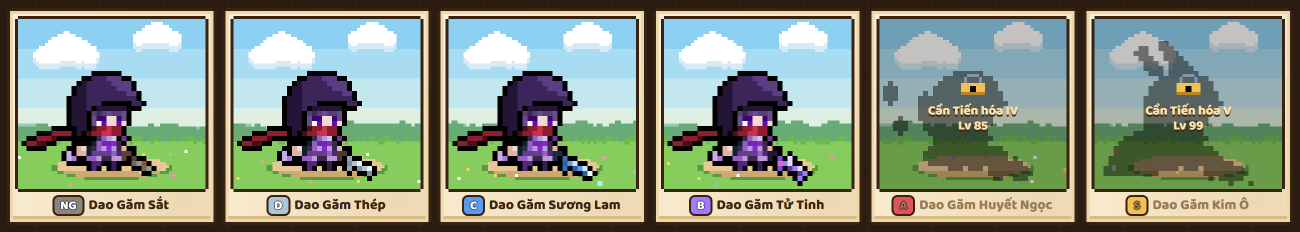
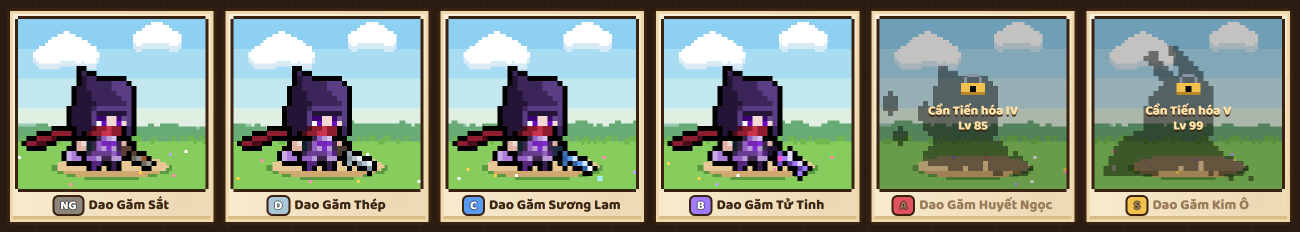
Vẽ lại mũ trùm Sát Thủ và Xạ Thủ: ôm sát đầu, nhỏ gọn, bỏ lưỡi trai
Sát Thủ Bóng Ma, Hàn Ảnh, Huyết Ảnh đội mũ trùm có chóp nhọn; Tử Thần Vĩnh Đông và Tu La đội mũ tròn kèm sừng. Mũ trùm Xạ Thủ để lộ tóc mái và không còn che cung.

diff --git a/index.html b/index.html
@@ -139,7 +139,7 @@ footer a { color: #e9c89a; }
 <h2 class="sec" id="s2"><span class="n">2</span>  Cây tiến hóa <small>5 class · Dạng 0–1 chung, Lv 40 rẽ nhánh A/B</small></h2>
 <p class="lead">Màu nhãn “Dạng” dùng lại màu độ hiếm: Thường → Khá → Hiếm → Sử thi → Huyền thoại → Thần thoại. Mỗi thẻ ghi các kỹ năng <b>mới học ở dạng đó</b>. Mỗi nhánh đủ 12 kỹ năng: <b>5 dùng chung</b> (Lv 1–20) và <b>7 riêng</b> (Lv 40–99). Đường vàng từ mốc Lv 40 rẽ xuống nhánh B. Từ Dạng 3 có <b>vòng rune</b> dưới chân, từ Dạng 4 có <b>hạt sáng</b>, Dạng 5 thêm <b>hào quang</b>, màu theo nhánh.</p>
 <div class="grp stack"><figure class="shot"><a href="img/tree1@2x.webp" target="_blank" rel="noopener"><img src="img/tree1.webp" srcset="img/tree1.webp 1300w, img/tree1@2x.webp 2600w" sizes="(max-width: 1332px) calc(100vw - 32px), 1300px" data-w="1300" width="1300" height="1029" style="--w:1300px" loading="lazy" decoding="async" alt="Cây tiến hóa · Tiên Phong"></a></figure><figure class="shot"><a href="img/tree2@2x.webp" target="_blank" rel="noopener"><img src="img/tree2.webp" srcset="img/tree2.webp 1300w, img/tree2@2x.webp 2600w" sizes="(max-width: 1332px) calc(100vw - 32px), 1300px" data-w="1300" width="1300" height="1015" style="--w:1300px" loading="lazy" decoding="async" alt="Cây tiến hóa · Sát Thủ"></a></figure><figure class="shot"><a href="img/tree3@2x.webp" target="_blank" rel="noopener"><img src="img/tree3.webp" srcset="img/tree3.webp 1300w, img/tree3@2x.webp 2600w" sizes="(max-width: 1332px) calc(100vw - 32px), 1300px" data-w="1300" width="1300" height="1047" style="--w:1300px" loading="lazy" decoding="async" alt="Cây tiến hóa · Pháp Sư"></a></figure><figure class="shot"><a href="img/tree4@2x.webp" target="_blank" rel="noopener"><img src="img/tree4.webp" srcset="img/tree4.webp 1300w, img/tree4@2x.webp 2600w" sizes="(max-width: 1332px) calc(100vw - 32px), 1300px" data-w="1300" width="1300" height="1015" style="--w:1300px" loading="lazy" decoding="async" alt="Cây tiến hóa · Xạ Thủ"></a></figure><figure class="shot"><a href="img/tree5@2x.webp" target="_blank" rel="noopener"><img src="img/tree5.webp" srcset="img/tree5.webp 1300w, img/tree5@2x.webp 2600w" sizes="(max-width: 1332px) calc(100vw - 32px), 1300px" data-w="1300" width="1300" height="1043" style="--w:1300px" loading="lazy" decoding="async" alt="Cây tiến hóa · Tu Sĩ"></a></figure></div>
-<div class="note parch px honest"><b>Ngoại hình tiến hóa:</b> bộ Zerie có 4 dáng người cho Tiên Phong (Lính, Hiệp sĩ, Hiệp sĩ Thập tự, Kỵ sĩ giáo). Sát Thủ, Pháp Sư, Xạ Thủ, Tu Sĩ mỗi class chỉ có <b>1 dáng gốc</b>, nên mỗi dạng = <b>đổi màu + phụ kiện vẽ thêm</b>: khăn, mặt nạ, mũ trùm, sừng (Sát Thủ); áo choàng, quả cầu, mũ nhọn, vòng rune (Pháp Sư); lông vũ, chim ưng, trăng, vòng nguyệt quế (Xạ Thủ); dải choàng, mắt thứ ba, vòng hào quang, cánh (Tu Sĩ). <b>Nhánh B</b> dùng cùng dáng nhưng đổi tông màu và bộ phụ kiện riêng: Tiên Phong giáp đỏ thẫm, đen; Sát Thủ khăn và mắt đỏ, mảnh máu bay, sừng; Pháp Sư áo ngọc lam, mũ cao, có <b>tinh linh slime đi theo</b> (1 → 2 → 3 con theo nguyên tố chính, Dạng 5 đủ Lửa, Băng, Sét); Xạ Thủ áo tím, lục độc, mũ trùm, khăn che mặt, gạc hươu; Tu Sĩ ngọc giữa trán, áo đêm, sao bay, tia sáng. Phụ kiện <b>bám theo đầu nhân vật trong mọi khung hình</b> (đứng, đi, đánh, trúng đòn), và công cụ nhập sprite sẽ tự ghép, không lưu sprite vào git. Sau này muốn đẹp hơn có thể vẽ lại bằng Aseprite. Loại vũ khí 2 của Tiên Phong (<b>Rìu Hai Tay</b>) dùng thêm dáng <b>Lính Rìu Giáp</b> ở Dạng 0–3; Dạng 4–5 vẫn cưỡi ngựa nhưng cầm <b>kích</b>.</div>
+<div class="note parch px honest"><b>Ngoại hình tiến hóa:</b> bộ Zerie có 4 dáng người cho Tiên Phong (Lính, Hiệp sĩ, Hiệp sĩ Thập tự, Kỵ sĩ giáo). Sát Thủ, Pháp Sư, Xạ Thủ, Tu Sĩ mỗi class chỉ có <b>1 dáng gốc</b>, nên mỗi dạng = <b>đổi màu + phụ kiện vẽ thêm</b>: khăn, mặt nạ, mũ trùm, sừng (Sát Thủ); áo choàng, quả cầu, mũ nhọn, vòng rune (Pháp Sư); lông vũ, mũ trùm, chim ưng, trăng, vòng nguyệt quế (Xạ Thủ); dải choàng, mắt thứ ba, vòng hào quang, cánh (Tu Sĩ). <b>Nhánh B</b> dùng cùng dáng nhưng đổi tông màu và bộ phụ kiện riêng: Tiên Phong giáp đỏ thẫm, đen; Sát Thủ khăn và mắt đỏ, mảnh máu bay, sừng; Pháp Sư áo ngọc lam, mũ cao, có <b>tinh linh slime đi theo</b> (1 → 2 → 3 con theo nguyên tố chính, Dạng 5 đủ Lửa, Băng, Sét); Xạ Thủ áo tím, lục độc, mũ trùm, khăn che mặt, gạc hươu; Tu Sĩ ngọc giữa trán, áo đêm, sao bay, tia sáng. Phụ kiện <b>bám theo đầu nhân vật trong mọi khung hình</b> (đứng, đi, đánh, trúng đòn), và công cụ nhập sprite sẽ tự ghép, không lưu sprite vào git. Sau này muốn đẹp hơn có thể vẽ lại bằng Aseprite. Loại vũ khí 2 của Tiên Phong (<b>Rìu Hai Tay</b>) dùng thêm dáng <b>Lính Rìu Giáp</b> ở Dạng 0–3; Dạng 4–5 vẫn cưỡi ngựa nhưng cầm <b>kích</b>.</div>
 <div class="note parch px honest"><b>Vũ khí theo trang bị:</b> mỗi class có <b>2 loại vũ khí</b> (hình cây vẽ loại 1, đủ 2 loại xem ở mục 4b; Sát Thủ: Dao Găm hoặc Song Đao; Tiên Phong: Kiếm &amp; Khiên hoặc Rìu Hai Tay…). Mỗi thẻ vẽ vũ khí <b>hạng mở ở dạng đó</b> (nhãn góc trái trên: NG → D → C → B → A → S). Trong game, vũ khí vẽ trên người là <b>món đang cầm</b> chứ không theo dạng (xem mục 4). Công cụ dò vị trí vũ khí trong từng khung hình rồi vẽ lại, nên vũ khí mới chạy đúng mọi hoạt ảnh (đứng, đi, đánh, trúng đòn).</div>
 <h2 class="sec" id="s3"><span class="n">3</span>Màn Anh hùng · Tiến hóa <small>1280×720 · thay cho Phòng thử build · hình trên: trước, hình dưới: sau khi tiến hóa</small></h2>
 <p class="lead">Sát Thủ vừa chạm <b>Lv 20</b>. Còn thiếu 6 Nanh Sói và <b>Ấn Bóng Tối</b>, món chỉ rơi từ Tù Trưởng Goblin khi đang nhận nhiệm vụ. Đủ đồ thì nút <b>TIẾN HÓA</b> sáng lên. Bấm vào: nhân vật lóe sáng, đổi sang dáng mới, mở 3 kỹ năng mới, và XP trong Kho dự trữ chảy vào Lv 21.</p>
